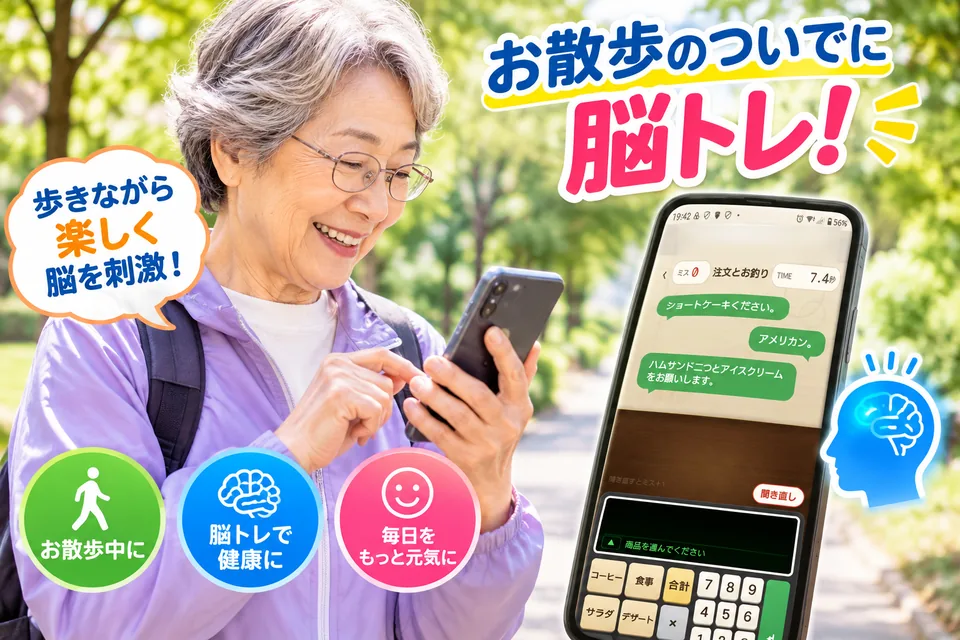
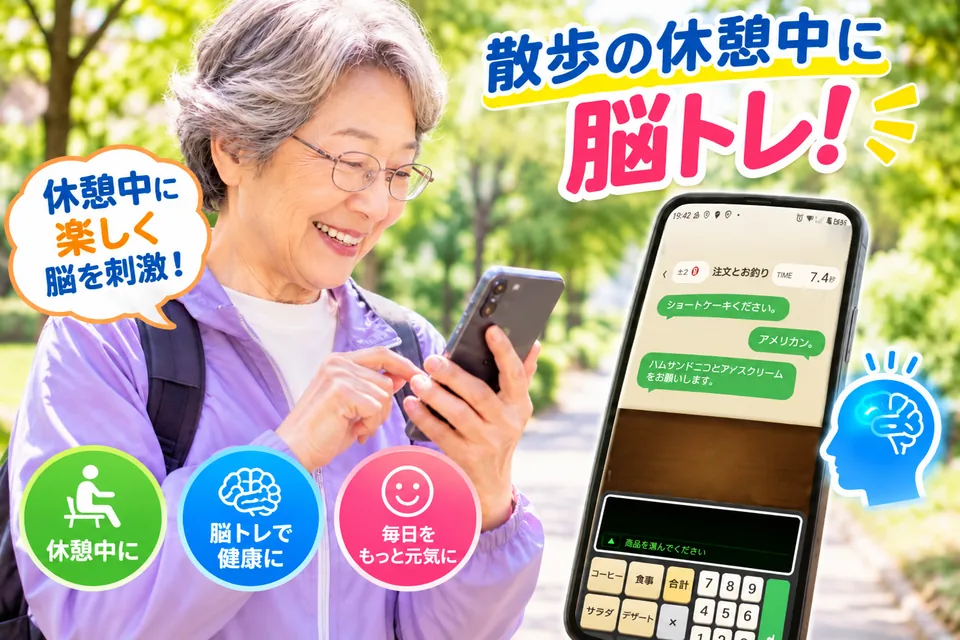
脳トレの利用シーン画像を「散歩の休憩中」版に差し替え（日英）
- 日本語版 brain-scene と英語版 brain-en-scene を修正版に更新
- 画像内のテスト広告バナー、日本語版の崩れた文字・ボタンを消去
- alt テキストを「休憩中」に合わせて修正

Claude-Session: https://claude.ai/code/session_01PhnCp7KzDZAMWKWMghx5nm

diff --git a/public/brain/index.html b/public/brain/index.html
@@ -158,7 +158,7 @@
                srcset="/images/brain-scene-960.webp 960w, /images/brain-scene.webp 1536w"
                sizes="(max-width: 900px) 90vw, 620px"
                width="1536" height="1024" loading="lazy"
-               alt="公園を散歩しながらスマートフォンで脳トレを楽しむ女性">
+               alt="公園での散歩の休憩中にスマートフォンで脳トレを楽しむ女性">
         </div>
         <div class="scene-copy">
           <p class="eyebrow">Scene</p>

diff --git a/public/en/brain/index.html b/public/en/brain/index.html
@@ -159,7 +159,7 @@
                srcset="/images/brain-en-scene-960.webp 960w, /images/brain-en-scene.webp 1536w"
                sizes="(max-width: 900px) 90vw, 620px"
                width="1536" height="1024" loading="lazy"
-               alt="A woman enjoying brain games on her smartphone while walking in a park">
+               alt="A woman enjoying brain games on her smartphone during a break on her walk in the park">
         </div>
         <div class="scene-copy">
           <p class="eyebrow">Scene</p>

diff --git a/public/en/index.html b/public/en/index.html
@@ -162,7 +162,7 @@
 
           <div class="scene">
             <div class="scene-visual">
-              <img src="/images/brain-en-scene-960.webp" width="960" height="640" loading="lazy" alt="A woman enjoying brain games while out for a walk">
+              <img src="/images/brain-en-scene-960.webp" width="960" height="640" loading="lazy" alt="A woman enjoying brain games during a break on her walk">
             </div>
             <div class="scene-copy">
               <div class="app-mark">

diff --git a/public/index.html b/public/index.html
@@ -161,7 +161,7 @@
 
           <div class="scene">
             <div class="scene-visual">
-              <img src="/images/brain-scene-960.webp" width="960" height="640" loading="lazy" alt="散歩しながら脳トレを楽しむ女性">
+              <img src="/images/brain-scene-960.webp" width="960" height="640" loading="lazy" alt="散歩の休憩中に脳トレを楽しむ女性">
             </div>
             <div class="scene-copy">
               <div class="app-mark">
